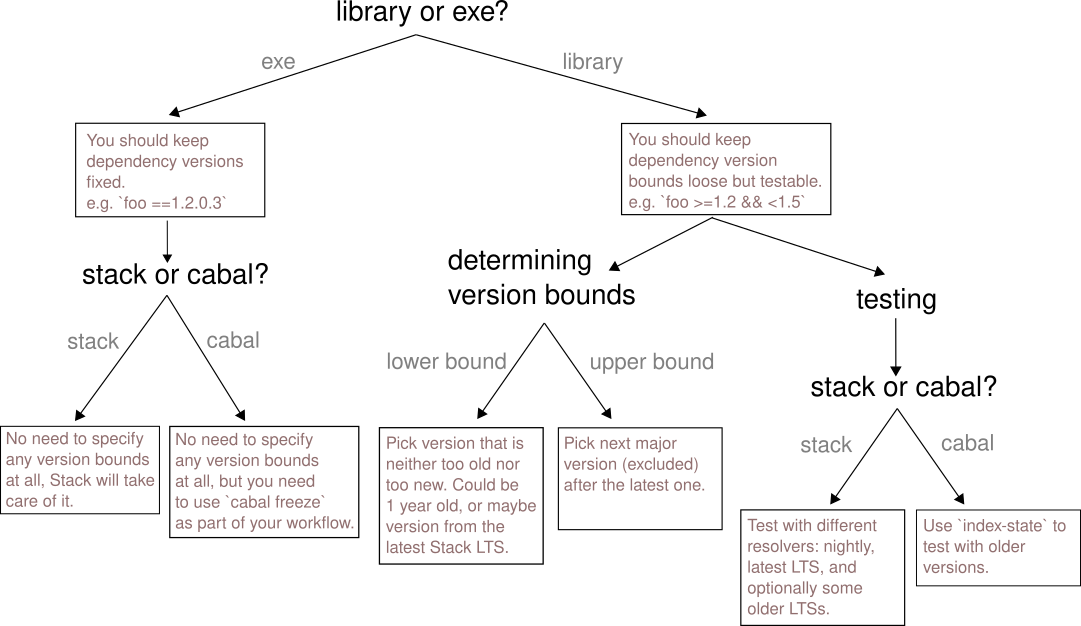
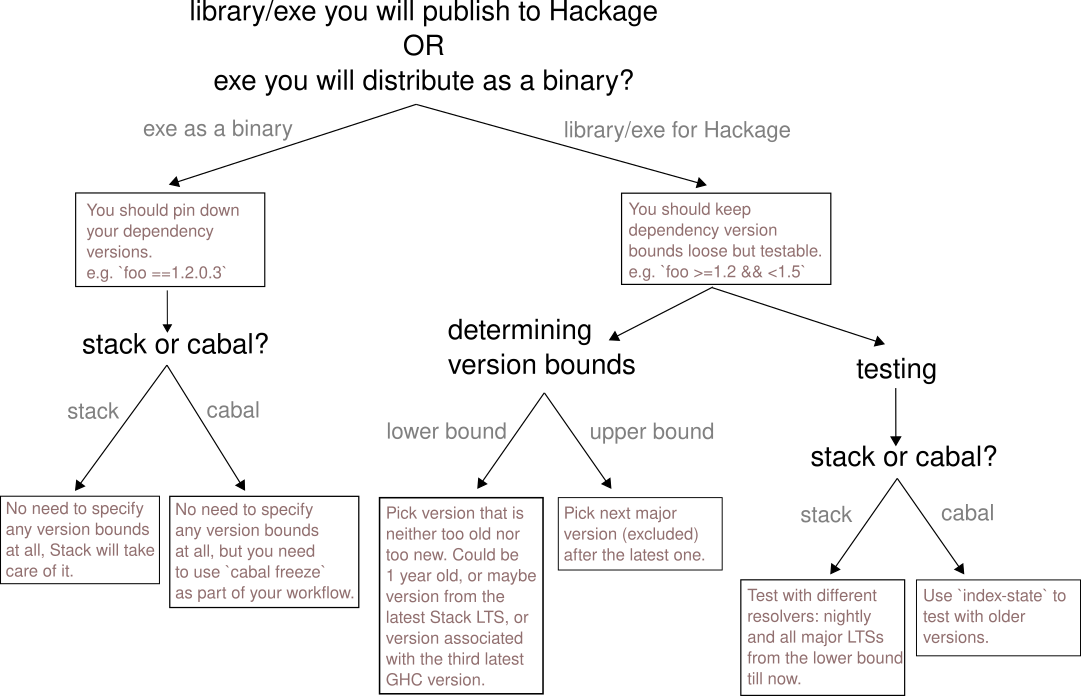
Updated 'determining version bounds' based on reddit feedback.

Changed region(s): [[0.0, 0.1518, 1.0, 1.0], [0.0611, 0.0, 0.6105, 0.6374], [0.7632, 0.4249, 0.8853, 0.5463]]

diff --git a/dependencies-version-bounds.md b/dependencies-version-bounds.md
@@ -19,11 +19,16 @@ Read on to learn in details about every step.
 ![Diagram](dependencies-version-bounds-diagram.png)
 
 
-## Executable
+## Executable you are building on your own (not publishing it to Hackage)
 
-If you are defining dependencies for an executable, then you want to keep the version bounds as tight as possible, ideally completely fixed, so that you have consistency between builds. Completely fixed means your upper bound equals your lower bound - there is exactly one version that is valid.
+If you are defining dependencies for an executable that you will be building into a binary yourself, and not publishing it on Hackage, you will want to have pinned down versions of your dependencies (and recursively all of their dependencies, so the whole dependency tree) in order to have consistency / reproducibility between different builds / environments / machines (e.g. between two different developers, or between the staging and production environment, or between original release and a release with a bug fix added).
+"Pinned down versions" means that for every dependency we know exact specific version of it we will use when building the executable.
 
-Where this consistency is most important is when running tests vs building the release version of your executable -> you want to be sure that same dependency versions were used when testing the executable as when it was being built for release, because otherwise you might have untested behaviour become a part of your release. Even if dependency changed only with a "patch" change, e.g. from `1.0.0.0` to `1.0.0.1`, which could happen if your bounds are `>=1.0 && <1.1` and version `1.0.0.1` just got released, it might be that author of that change made a mistake and while fixing one bug introduced a new bug that you are not aware of and that you didn't run through tests.
+Here is an [excerpt](https://blog.johantibell.com/2014/04/announcing-cabal-120.html) from the announcement of cabal 1.20 where `cabal freeze` command was introduced (cabal command for pinning down versions), explaining the motivation for pinning down versions and warning that `cabal freeze` should not be used for packages published to Hackage:
+> If you're building an application that you're delivering to customers, either as binary or as something that runs on your servers, you want to make sure unwanted changes don't sneak in between releases.
+> For example, say you've found a bug in the just released 1.0.0.0 version and you want to release 1.0.0.1, which contains a fix. If you build the binary on a different machine than you built the release on, you risk building it against a slightly different set of dependencies, which means that your introducing untested code into your application, possible causing new bugs.
+
+> Note that you should only use cabal freeze on applications you develop in-house, not on packages you intend to upload to Hackage.
 
 Other than that, it is also convenient when all developers that are working on the project are using exactly the same dependency versions, because you avoid some of the "it works on my machine" problems and you also have them constantly testing, in a way, the final solution by running it locally (disclaimer: this is in no way replacement for automated testing).
 
@@ -31,38 +36,48 @@ This is true for any language, not just Haskell -> for example in Javascript/npm
 
 ### Stack
 
-If you are using Stack, there is nothing you need to do, this is already taken care of due to Stack snapshots (specified by Stack resolver) which fix dependency versions and GHC version.
+If you are using Stack, there is nothing you need to do, this is already taken care of due to Stack snapshots (specified by Stack resolver) which pin down both dependency versions and a GHC version.
 
-Therefore you can completely skip specifying any version bounds for your dependencies: they are determined by the stack resolver (as specified in your stack.yaml).
+Therefore there is no need to specify any version bounds for your dependencies: they are determined by the stack resolver (as specified in your stack.yaml).
 
 ### Cabal
 
-If you are using Cabal, the best solution is to use `cabal freeze` command, which will generate `cabal.project.freeze` file that you should include in your version control.
+If you are using Cabal, the solution is to use `cabal freeze` command, which will generate `cabal.project.freeze` file that you should include in your version control.
 
 `cabal.project.freeze` contains exact versions of all the dependencies (and their dependencies, recursively) as they were resolved by `cabal` at the moment of running `cabal freeze`.
 
-This way you are fixing the exact versions of your dependencies and there is no need to specify the version bounds in `<myproject>.cabal` file.
+This way you are pinning down the exact versions of your dependencies and there is no need to specify the version bounds in `<myproject>.cabal` file.
 
 When you want to update the dependencies or add a new dependency, you should update `<myproject>.cabal` file accordingly, run `cabal freeze` to regenerate the `cabal.project.freeze`, and again have that commited to your version control.
 
-To also fix the version of GHC, you can define `with-compiler: ghc-8.10.4` in the `cabal.project` file.
+To also fix the version of GHC, you can define `with-compiler: ghc-8.10.4` in the `cabal.project` file, which will then also be captured by the `cabal freeze`.
 
+> NOTE: You don't need to specify dependencies, but that doesn't mean you must not do it -> you can specify dependency versions for some or all of the dependencies if you wish to be explicit about them or have some other reason.
 
-## Library
+## Library or an executable you are publishing to Hackage
 
-If you are defining dependencies for a library that you will publish on Hackage to be used by others, you want to keep the version bounds of your dependencies loose, to make it easier for your library to be used alongside other libraries. So exactly the opposite approach then when dealing with an executable.
+If you are defining dependencies for a library or an executable that you will publish to Hackage to be used and built from source by others, you want to explicitly define version bounds for your dependenies, and you want to keep the version bounds of your dependencies loose.
+This is important because, when your package is used as a dependency for another package, it makes it easier for your package to be used alongside other dependencies.
+So exactly the opposite approach than when dealing with an executable that you are not publishing to Hackage but distributing as a binary on your own.
 
-Why is this important? When `cabal` is resolving dependencies, there are often situations where there are multiple dependencies depending on a same dependency (e.g. both `foo` and `bar` depend on `base`), and then `cabal` needs to figure out a version of that common dependency (e.g. `base`) that satisfies version bounds specified by both dependers (e.g. `foo` and `bar`). If `foo` and `bar` have tight version bounds for `base` that don't have any overlap, e.g. `foo` has `base: ==1.2.*` and `bar` has `base: ==1.3.*`, then `cabal` will not be able to find a version of `base` that satisfies both. This is why it is important that libraries have loose version bounds, to increase the chance that `cabal` will be able to find the version of common dependency that satisfies all of its dependers, even if there is a bunch of them.
+Why is it important to have explicitly specified loose version bounds?
+When `cabal` is resolving dependencies, there are often situations where there are multiple dependencies depending on a same dependency (e.g. both `foo` and `bar` depend on `base`),
+and then `cabal` needs to figure out a version of that common dependency (e.g. `base`) that satisfies version bounds specified by both dependers (e.g. `foo` and `bar`).
+If `foo` and `bar` have tight version bounds for `base` that don't have any overlap, e.g. `foo` has `base: ==1.2.*` and `bar` has `base: ==1.3.*`, then `cabal` will not be able to find a version of `base` that satisfies both.
+This is why it is important that packages published to Hackage have loose version bounds, to increase the chance that `cabal` will be able to find the version of common dependency that satisfies all of its dependers, even if there is a bunch of them.
 
-So, loose version bounds mean that your library can play nicely with other libraries.
+So, loose version bounds mean that your package can play nicely with other packages when they are all dependencies of another package.
 
 That said, how do you determine those version bounds, how loose should they actually be?
 
-The main constraint we have to think about here is that you want to ensure your library will work against the different combinations of dependency versions that are inside specified version bounds.
-This requirement is opposite to wanting to have loose version bounds, since the looser they are, the harder it is to ensure our library works against them.
-Therefore, we want to have as loose bounds as possible while still keeping our library maintainable / testable.
+The main constraint we have to think about here is that you want to ensure your package will work against the different combinations of dependency versions that are inside specified version bounds.
+This requirement is opposite to wanting to have loose version bounds, since the looser they are, the harder it is to ensure our package works against them.
+Therefore, we want to have as loose bounds as possible while still keeping our package maintainable / testable.
 
-For an example, if your library has dependencies `foo: >=1.0 && <2.0` and `bar: >=3.5 && <3.6`, you would want to ensure that it works correctly if `cabal` resolves `foo` to `1.0` and `bar` to `3.5`, but it should also work if it resolves `foo` to `1.4` and `bar` to `3.5.1`, or `foo` to `1.9.1` and `bar` to `3.5.0.1`, and so on and on, because you just can't know in advance what `foo` and `bar` will be resolved to.
+For an example, if your package has dependencies `foo: >=1.0 && <2.0` and `bar: >=3.5 && <3.6`,
+you would want to ensure that it works correctly if `cabal` resolves `foo` to `1.0` and `bar` to `3.5`,
+but it should also work if it resolves `foo` to `1.4` and `bar` to `3.5.1`, or `foo` to `1.9.1` and `bar` to `3.5.0.1`,
+and so on and on, because you just can't know in advance what `foo` and `bar` will be resolved to.
 
 Obviously there is a huge amount of combinations here (especially when there are plenty of dependencies and not just two) and we can't possibly run tests for all of them.
 
@@ -74,7 +89,7 @@ We can split the problem into two sub-problems:
 
 ### Determining initial version bounds
 
-Let's say you are adding a new dependency to your library -> how do you determine version bounds that are loose enough, but you can be pretty sure your library will work for the whole range?
+Let's say you are adding a new dependency to your package -> how do you determine version bounds that are loose enough, but you can be pretty sure your package will work for the whole range?
 
 We can further split this problem into two sub-problems:
 1. Determining lower bound.
@@ -91,7 +106,16 @@ If it is too new, you are cutting it tight and risk having version bounds that a
 
 How do you figure out what is the right spot between "old" and "new" though? How do you quantify "old" or "new"?
 
-You could go with a simple rule like this: find the newest major version that is at least 1 year old and go with that.
+The simplest approach is to use the latest major version as a lower bound, and the next major version (excluded) as the upper bound.
+If you are using `cabal`, you can use `cabal gen-bounds` to have cabal automatically calculate these bounds for you.
+
+This is however a very simplistic approach since it doesn't support any older versions, so it is not great!
+
+Instead, you could go with a simple rule like this: find the newest major version that is at least 1 year old and go with that.
+
+A bit more advanced approach, which many developers seem to use as a rule of thumb, would be to support three last major GHC versions.
+That seems to be a good place between "old" and "new".
+One of the simplest ways to find a lower bound associated with such older GHC version is to look for Stackage LTS associated with that GHC and then checking the package version specified by it.
 
 As a more advanced approach, you can learn more about the dependency package itself in order to determine the best lower bound:
 - If it is a very stable package that doesn't change much through time, you can pick a much older version.
@@ -108,59 +132,68 @@ So, if the latest version of the package is `2.3.0.1`, your upper bound would be
 If you want to be a bit more adventurous, you could investigate the package and try to predict the changes future major versions might bring based on the changelog and previous changes.
 By comparing that against the way you are using that library, you could figure out a more relaxed upper bound that has a good chance of working in the future and go with that.
 That way you buy more time until the next time you will need to update the version bounds, but you also increase the risk of your library breaking with time.
-If not confident, it is probably best to keep it simple and stick with the next major version, and you will update the bound when the time comes.
+If not confident, it is probably best not to do this and to keep it simple instead: stick with the next major version, and you will update the bound when the time comes.
 
 Again, same as for lower bound, you could also take a look at how other packages out there define upper bound for this dependency and learn something from that.
 
 ### Updating version bounds
 
-Let's say some time has passed since you defined the version bounds for dependency `D` and you feel your upper bound for it is getting "old", or somebody opened an issue saying that it is too old, or you want to pull in the newer version to get new features / bug fixes that you need.
+Let's say some time has passed since you defined the version bounds for dependency `D` and you feel your upper bound for it is getting "old**, or somebody opened an issue saying that it is too old, or you want to pull in the newer version to get new features / bug fixes that you need.
 This means it is time to update those version bounds!
+
+> NOTE: You can use `cabal outdate` to check which dependencies have newer versions that are not currently captured by your version bounds.
 
 #### Upper bound
 
 This is relatively simple -> you use the same approach as you did before, when determining initial bounds.
 
+
 #### Lower bound
 
-You could leave the lower bound as it is, since you already tested against it before and there are good chances your library still works ok with that version of dependency.
+You could leave the lower bound as it is, since you already tested against it before and there are good chances your package still works ok with that version of dependency.
 
 However, at some point you will probably want to update it -> if it is really old then you are getting almost nothing from keeping it so old, and you are increasing the range of versions you need to test with.
 
 When you decide to update it, you use the same approach as when defining initial dependencies.
 
+#### Updating package on Hackage
+
+If your package requires changes to its source code as a result of modifying version bounds, increase the version of your package and publish it to Hackage as a new release.
+
+If not, and the only change is modified version bounds and you are confident package works with those, don't publish a new version of package to Hackage, instead do a "metadata revision" on Hackage, as recommended by Hackage team.
+
 ### Testing in regards to version bounds
 
-As mentioned before, you want to ensure that your library works correctly with any valid combination of possible dependency versions as defined by version bounds.
+As mentioned before, you want to ensure that your package works correctly with any valid combination of possible dependency versions as defined by version bounds.
 Ideally you would test all these combinations, but that is not possible in practice as it is too resource intensive.
 
 The simplest practical solution is to run tests once for the oldest versions that fit into version bounds, and to also run tests with the latest versions that fit into version bounds.
 You could do this once you define initial bounds.
 
-Then, as you update dependencies, you would always be testing with the current latest versions (manually or in CI), and hope that your library still works with the older versions.
+Then, as you update dependencies, you would always be testing with the current latest versions (manually or in CI), and hope that your package still works with the older versions.
 
-More advanced approach might be to run multiple rounds of tests each time you update dependencies -> one round with the oldest versions, and one round with the newest versions.
-Maybe even with some of the versions in between.
+More advanced approach would be to run multiple rounds of tests each time you update dependencies -> one round with the oldest versions, and one round with the newest versions.
+Even better would be to also test for the versions in between -> common way to do this is to run tests for each major version of GHC.
 
-Easy way to test with versions of different age is to run tests while using different Stack resolver, if you are using Stack to build your library.
-So, you could run tests twice, once with the latest LTS and once with the nightly resolver. Or, you could run them three times, once with the older LTS, once with the current LTS, and once with the nightly resolver.
+Easy way to test with versions of different age is to run tests while using different Stack resolver, if you are using Stack to build your package.
+So, you could run tests twice, once with the latest LTS and once with the nightly resolver. Or, you could run them three times, once with the older LTS, once with the current LTS, and once with the nightly resolver, depending on how wide/loose are your version bounds.
 
 If you are using cabal to build your project, you can achieve the same thing (travel into past) by using `index-state` configuration option, which tells cabal to use Hackage as it was at the specified time.
 You would then run tests once with no index-state set, so that latest versions are used, and then you would run it with `index-state` set to such point in time that it uses versions that are close to the lower bounds of your version bounds.
 And finally you could also run it with `index-state` set to points in time in between now and that oldest `index-state`, to cover the middle ground.
 
-Finally, you could (and probably should) run these tests in the CI instead of manually, ensuring that your library is always tested againt different sets of versions.
+Finally, you could (and probably should) run these tests in the CI instead of manually, ensuring that your package is always tested againt different sets of versions.
 
 For an example of such CI workflow, you can take a look at https://github.com/wasp-lang/strong-path/blob/master/.github/workflows/ci.yaml .
 
 #### Additional CI testing tips
 
-1. There is a cabal option [`tested-with`](https://cabal.readthedocs.io/en/latest/cabal-package.html#pkg-field-tested-with) -> you might want to add that one to describe with which GHC versions was your library tested.
-2. [haskell-ci](https://github.com/haskell-CI/haskell-ci) can create the whole CI workflow for you, that tests your library with different GHC configurations.
+1. There is a cabal option [`tested-with`](https://cabal.readthedocs.io/en/latest/cabal-package.html#pkg-field-tested-with) -> you might want to add that one to describe with which GHC versions was your package tested.
+2. [haskell-ci](https://github.com/haskell-CI/haskell-ci) can create the whole CI workflow for you, that tests your package with different GHC configurations.
 
 ### Example
 
-Let's say I have a library that depends on `template-haskell` (TH) and I need to determine the version bounds for it.
+Let's say I am writing a library that depends on `template-haskell` (TH) and I need to determine the version bounds for it.
 
 I am using TH for the first time and I am still new to it, but I am pretty sure I am using the basic, core features and nothing especially exotic or new.
 
@@ -180,9 +213,6 @@ All tests pass, but I am not feeling great about not testing `2.18` version of T
 Finally, my version bounds are `>=2.16 && <2.18`.
 
 I also ensure my CI workflow runs tests twice -> first with the latest LTS, and then with the nightly resolver.
-
-TODO: Update article so that it says that loose bounds are to be used for libraries you will publish, while fixed should be used for executables you will not publish. If you are publishing an executable, then it is not so easy to decide, it seems there are both camps out there. Npm docs say, regarding package.lock.json: "The official view described in the docs is that option 1 should be used for libraries (presumably in order to reduce the amount of package duplication caused when lots of a package's dependencies all depend on slightly different versions of the same secondary dependency), but that option 2 might be reasonable for executables that are going to be installed globally."
-"The origin of this misuse is NPM documentation. It should instead explain that package-lock.json should only be committed to the source code version control when the project is not a dependency of other projects, i.e. package-lock.json should only by committed to source code version control for top-level projects (programs consumed by the end user, not other programs)."
 
 
 ## Resources

diff --git a/cabal-and-stack.md b/cabal-and-stack.md
@@ -80,3 +80,5 @@ Personally and subjectively, I would put it this way:
 
 ## Resources
 - Comments I got on first version of this article: https://www.reddit.com/r/haskell/comments/qm4xlg/request_for_review_short_article_on_cabal_and/
+- Similar but older article from Kowainik: https://kowainik.github.io/posts/2018-06-21-haskell-build-tools
+- List of advanced cabal tips, first few cover replicating Stack's reproducibility via Cabal with index-state, freeze and similar: https://lukelau.me/haskell/posts/making-the-most-of-cabal/
